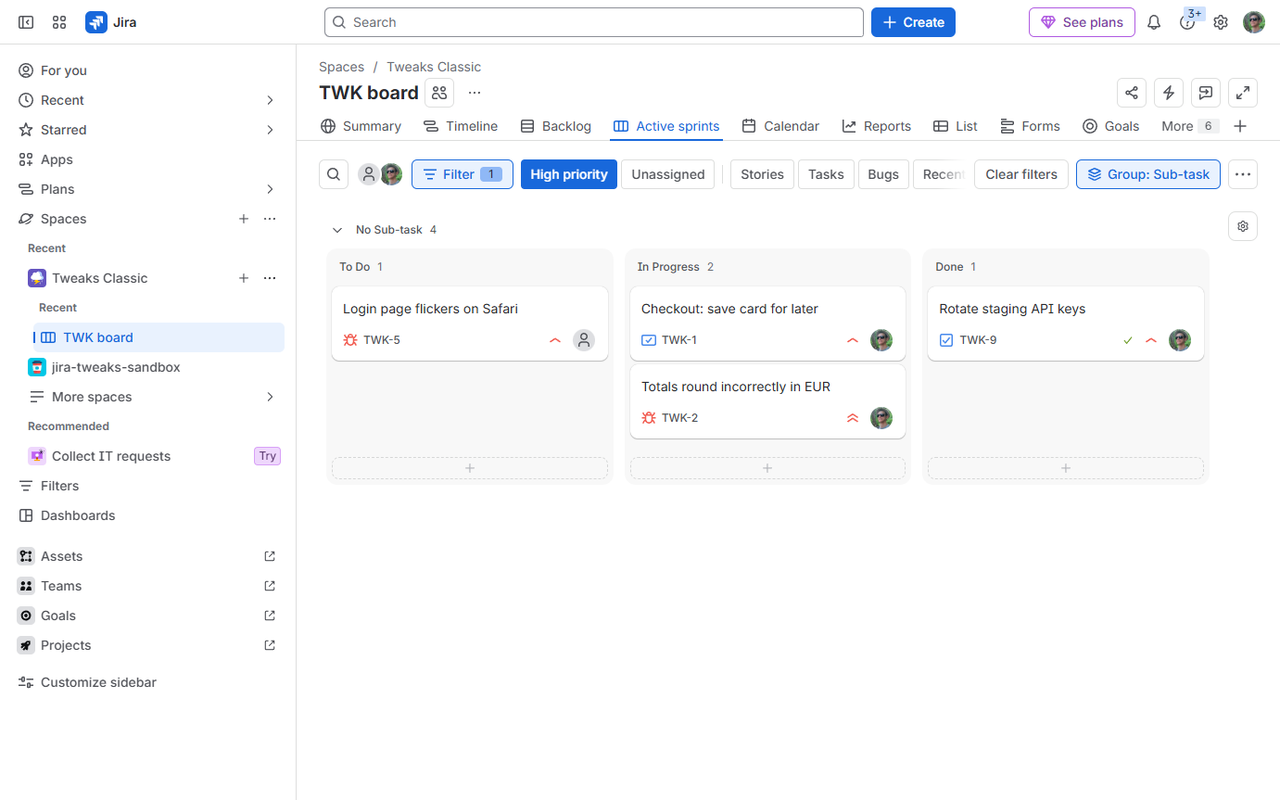
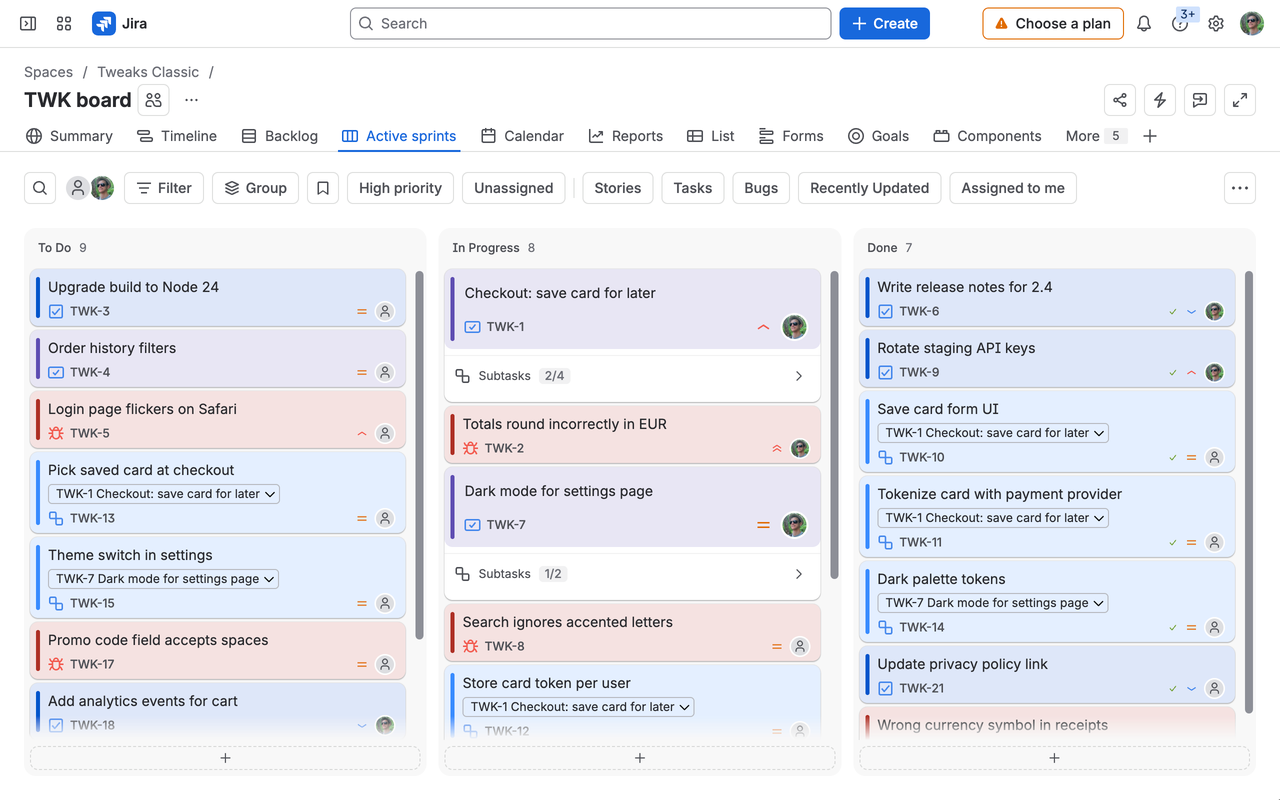
Prepare the 1.4.0 store release
- New store screenshots (1280x800): filters on one line, saved filter
  sets, compact and coloured cards before/after, and the settings popup.
- Refreshed promo tiles with the new tagline and board.
- CHANGELOG.md with the 1.4.0 changes (and 1.3.0), linked from the README.
- Store listing: a "NEW IN 1.4" note, the screenshot order, and release
  steps (one version bump per upload, then tag and GitHub release).

diff --git a/CHANGELOG.md b/CHANGELOG.md
@@ -1,0 +1,52 @@
+# Changelog
+
+## 1.4.0
+
+### New
+
+- **Saved filter sets.** A bookmark button next to the filters saves the
+  filters you have on as a named set and turns them all back on in one click.
+  Sets are kept per board, synced through your Chrome profile. The same menu
+  clears all filters.
+- **Number keys** (off by default). <kbd>1</kbd>–<kbd>9</kbd> toggle the
+  board's first nine filters and <kbd>0</kbd> clears them all. Ignored while
+  you type in a field or have a dialog open.
+- **Compact cards** (off by default). Less padding, titles up to two lines and
+  smaller avatars: cards get 25–30% shorter, so more fit on screen.
+- **Column width.** Give every column an exact width: narrower so more columns
+  fit without scrolling sideways (Jira never goes below 200px), or wider for
+  long titles. *Auto* keeps Jira's own sizing.
+- **Card colours** (off by default). Tints the whole card with its card colour,
+  not just the thin stripe on the left.
+- **Works with Jira's own filter buttons.** Jira can show a board's filters as
+  a line of its own buttons instead of the *Custom filters* dropdown (*View
+  settings → Show custom filters individually*). The extension now keeps that
+  line on one row that scrolls sideways, draws `|` filters as dividers and
+  applies the text size to it.
+
+### Fixed
+
+- On boards showing Jira's line of filter buttons, the *Group* button was
+  mistaken for the *Custom filters* dropdown: with *Show filters as buttons*
+  on, it was hidden and a second row of filters appeared.
+- *Move toolbar icons into ••• menu* didn't work on boards showing Jira's line
+  of filter buttons.
+- With the filters on one line, Jira's filter controls no longer take space
+  the filters need.
+
+### Changed
+
+- *Show filters as buttons* is greyed out on boards where Jira already shows
+  its own buttons.
+
+## 1.3.0 (October 15, 2026)
+
+First public release on the Chrome Web Store.
+
+- The board's *Custom filters* dropdown shown as one-click toggle buttons,
+  in sync with Jira.
+- Filters on one line with sideways scrolling, `|` filters as dividers,
+  adjustable text size.
+- Compact search: *Search board* shrinks to an icon until clicked.
+- Compact toolbar: the board's icon buttons move into the ••• menu.
+- Works with any Jira language.

diff --git a/store/listing.md b/store/listing.md
@@ -14,8 +14,10 @@ git archive --format=zip -o board-tweaks-for-jira.zip HEAD manifest.json setting
 (Don't use Windows PowerShell's `Compress-Archive`: it writes `icons\…` paths
 with backslashes, which the store doesn't read as folders.)
 
-Bump `version` in `manifest.json` before every upload; the store rejects a
-version it has already seen. Check the list above against `content_scripts`
+Bump `version` in `manifest.json` once per upload (not per change); the
+store rejects a version it has already seen. After the upload, tag the
+commit (`git tag v<version>`, push the tag) and publish a GitHub release
+with that version's section of `CHANGELOG.md`. Check the list above against `content_scripts`
 in `manifest.json` whenever a script is added.
 
 ## Store listing tab
@@ -47,6 +49,9 @@ FEATURES
 
 Everything can be switched on and off from the extension's popup, and it works with any Jira language.
 
+NEW IN 1.4
+Saved filter sets, number-key shortcuts, compact cards, column width and card colours, and support for Jira's own line of filter buttons. Full list: https://github.com/metalurgus/board-tweaks-for-jira/blob/main/CHANGELOG.md
+
 REQUIREMENTS
 Jira Cloud (*.atlassian.net). Quick filters are set up per board in Board settings → Custom filters on company-managed boards; team-managed boards don't have them, so there only the toolbar and search tweaks apply.
 
@@ -62,7 +67,10 @@ Not affiliated with or endorsed by Atlassian. Jira is a trademark of Atlassian.
 
 **Graphic assets:**
 - Store icon: `icons/icon128.png`
-- Screenshots (1280×800): `store/screenshot-1.png`, `store/screenshot-2.png`
+- Screenshots (1280×800), in this order: `store/screenshot-1.png` (filters on
+  one line), `store/screenshot-2.png` (saved filter sets),
+  `store/screenshot-3.png` (compact, coloured cards and column width),
+  `store/screenshot-4.png` (the settings popup)
 - Small promo tile (440×280): `store/promo-small-440x280.png`
 - Marquee promo tile (1400×560, optional): `store/marquee-1400x560.png`
 

diff --git a/README.md b/README.md
@@ -46,7 +46,8 @@ cards get out of the way.
 - **Adjustable text size** for the buttons.
 
 Everything can be switched on and off from the extension's popup. It works with
-any Jira language.
+any Jira language. See [CHANGELOG.md](CHANGELOG.md) for what changed in each
+version.
 
 ## Requirements
 
